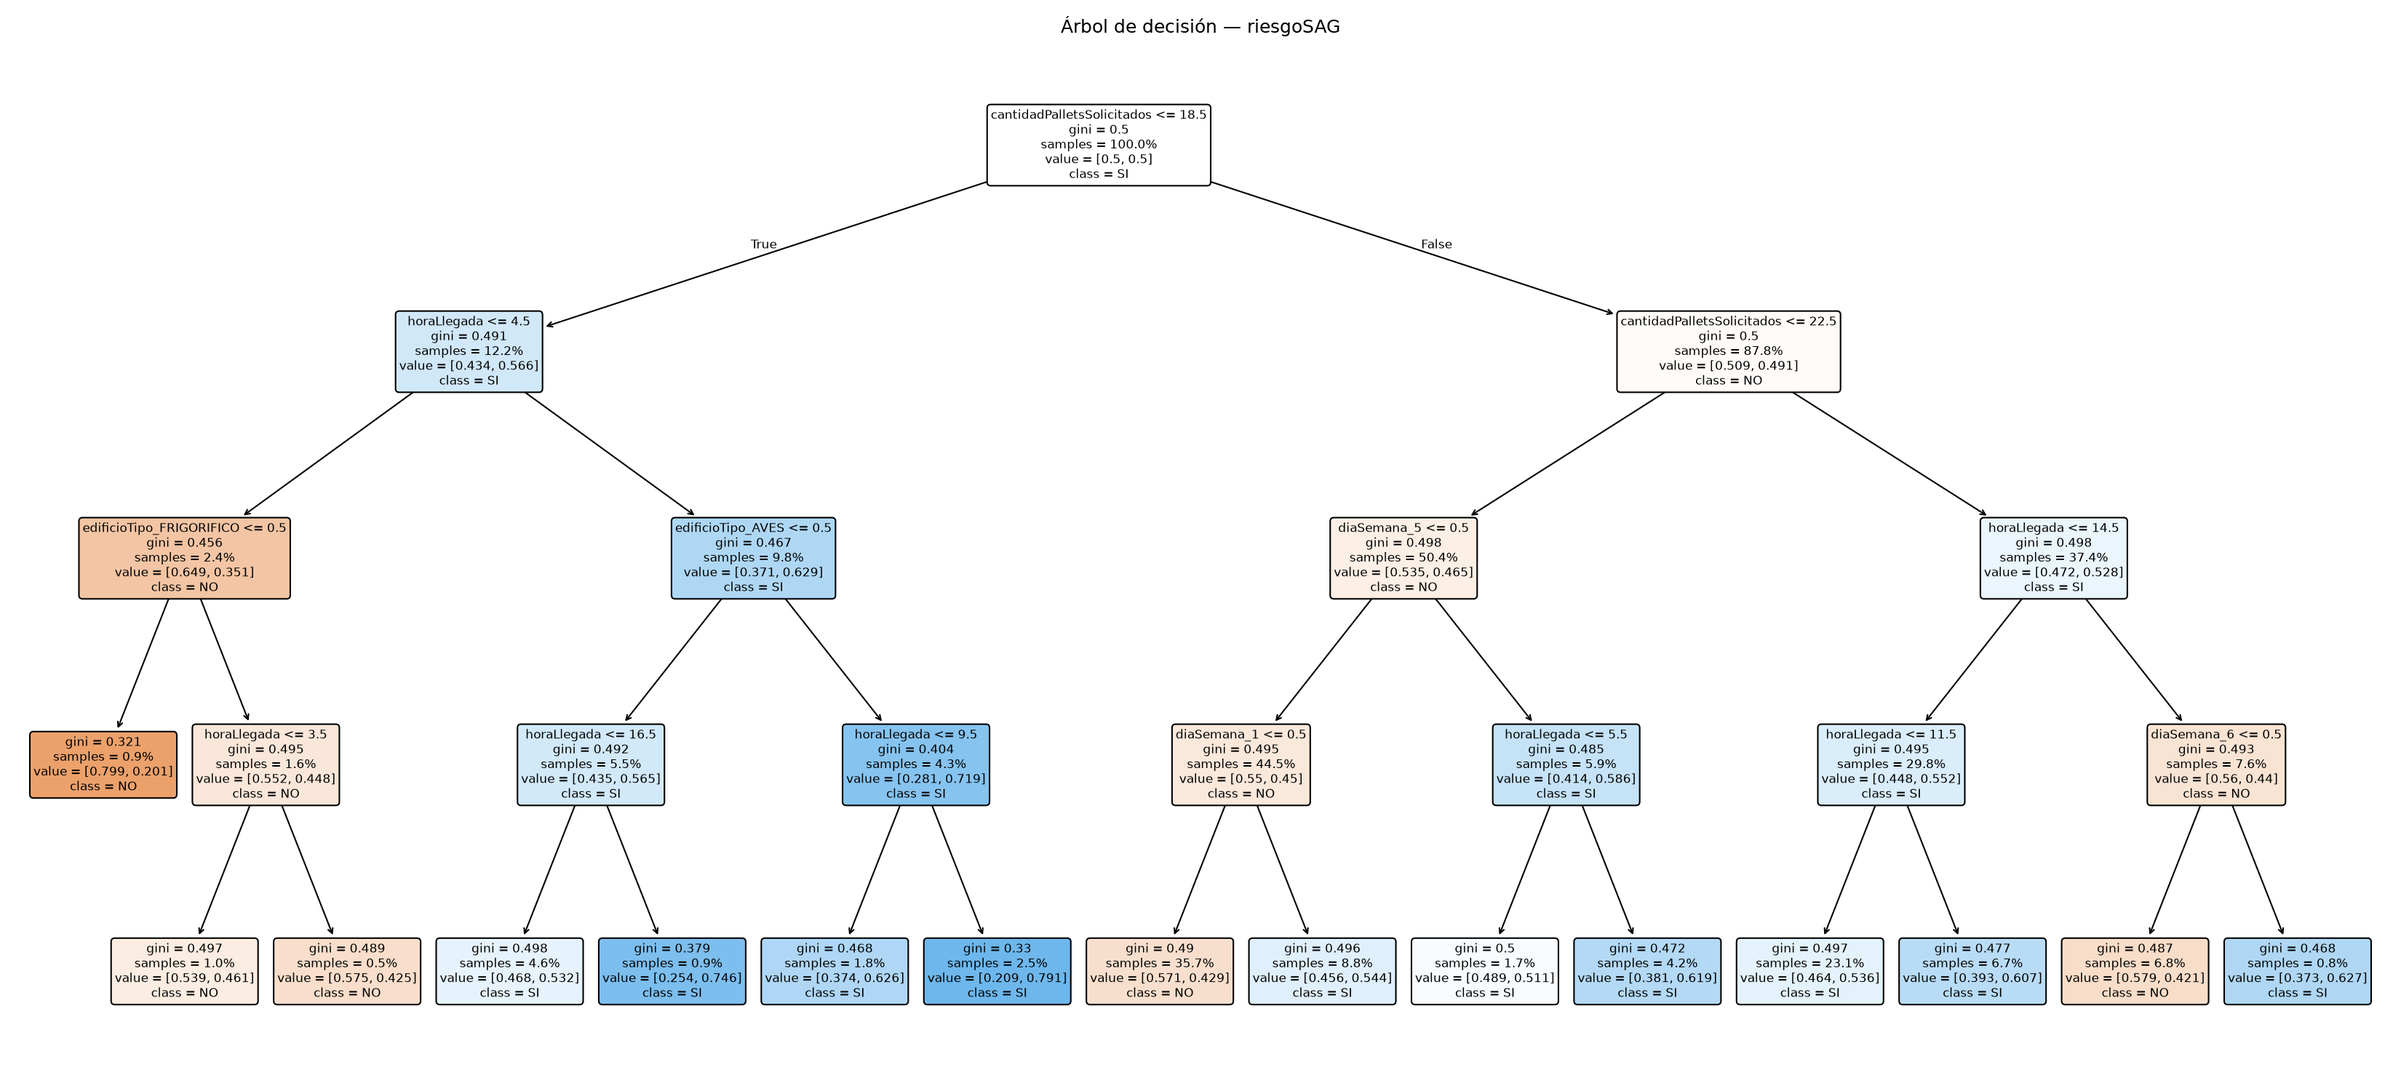
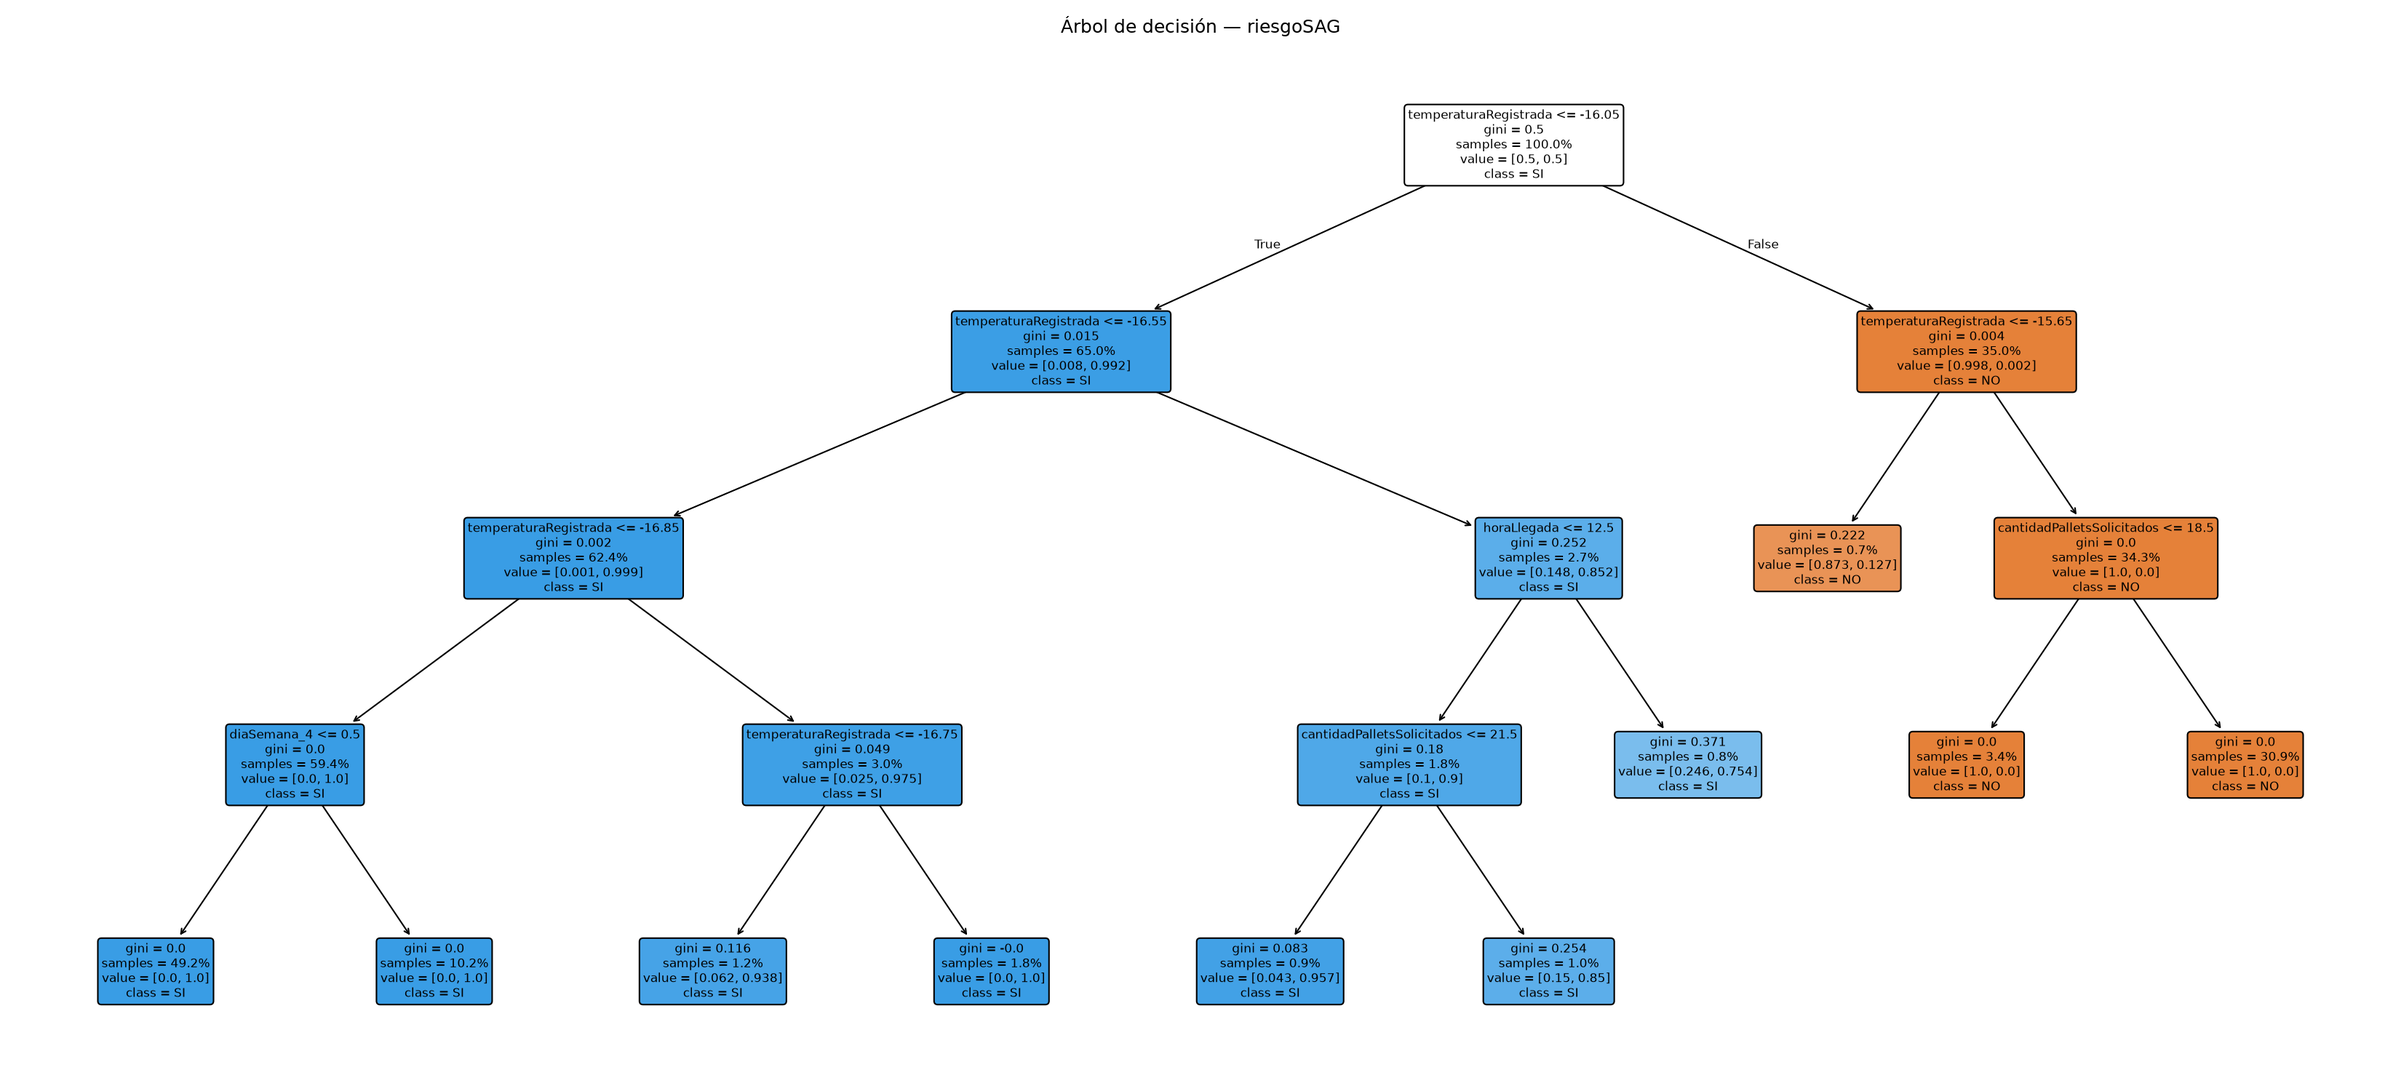
feat: enriquecer modelo SAG con temperatura de túnel como variable causal
Se detectó que la temperatura del túnel de frío (EventoTunel) nunca influía
en el resultado de la inspección SAG en el generador de datos — dos valores
independientes, pese a que la temperatura de cadena de frío es el criterio
real que evalúa este tipo de inspección.

- enriquecer-temperatura-sag.ts: genera temperatura consistente con el
  resultado SAG ya existente para los ~6.030 camiones de exportación
  (objetivo -18°C, con solapamiento realista, sin tocar inspecciones
  existentes)
- entrenar_modelos.py: temperaturaRegistrada como nueva variable del modelo
  SAG. Resultado: accuracy 56.5% → 99.6%, con la temperatura concentrando
  99.94% de la importancia
- arbol-decision.ts / prediccion.service.ts: la predicción SAG solo se
  calcula si el camión ya registró temperatura; si no, se marca
  explícitamente "aún no disponible" en vez de inventar un valor
- Frontend: la tarjeta de riesgo SAG en la ficha del camión refleja el
  estado "pendiente" hasta que el camión pasa por el túnel
- Documentado en bitácora (sección 9.6) como decisión de modelado
  deliberada y declarada, no como hallazgo empírico

diff --git a/apps/api/prisma/enriquecer-temperatura-sag.ts b/apps/api/prisma/enriquecer-temperatura-sag.ts
@@ -1,0 +1,86 @@
+/**
+ * Enriquece el dataset con temperatura de túnel real y causalmente ligada
+ * al resultado de la inspección SAG — decisión de modelado deliberada para
+ * el árbol de decisión de riesgo SAG (ver bitácora, sección 9.6).
+ *
+ * Regla de negocio: temperatura objetivo de cadena de frío -18°C. Camiones
+ * aprobados tienden a estar cerca de ese objetivo (con algo de ruido);
+ * camiones rechazados tienden a estar más alejados (más "calientes"),
+ * con solapamiento realista en la zona límite — no es un corte perfecto.
+ *
+ * Genera la temperatura HACIA ATRÁS a partir del resultado SAG ya existente
+ * (no se tocan las inspecciones ya generadas), y crea el registro
+ * EventoTunel correspondiente para cada camión de exportación.
+ */
+import { PrismaClient } from '@prisma/client';
+
+const prisma = new PrismaClient();
+const LOTE = 300;
+
+function rng(seed: number) {
+  let s = seed;
+  return () => { s = (s * 9301 + 49297) % 233280; return s / 233280; };
+}
+const random = rng(48213);
+
+/** Aproximación de ruido gaussiano (suma de 3 uniformes, escalada) */
+function ruidoGaussiano(desviacion: number): number {
+  const suma = random() + random() + random() - 1.5; // media 0, rango aprox [-1.5, 1.5]
+  return suma * desviacion;
+}
+
+function clamp(v: number, min: number, max: number) { return Math.max(min, Math.min(max, v)); }
+
+let contador = 0;
+function nuevoId() { contador++; return `evt_${contador.toString(36)}`; }
+
+async function main() {
+  const operador = await prisma.usuario.findFirst({ where: { rol: 'OPERADOR_TUNEL' } });
+  if (!operador) throw new Error('Falta usuario OPERADOR_TUNEL');
+
+  const camiones = await prisma.camion.findMany({
+    where: { tipo: 'EXPORTACION' },
+    select: {
+      id: true,
+      inspecciones: { orderBy: { timestampResolucion: 'desc' }, take: 1, select: { estado: true } },
+      eventos: { where: { estado: 'ESPERANDO_SAG' }, orderBy: { timestamp: 'asc' }, take: 1, select: { timestamp: true } },
+    },
+  });
+  console.log(`🔍 ${camiones.length} camiones de exportación a procesar`);
+
+  const filas: any[] = [];
+  let sinInspeccion = 0;
+
+  for (const c of camiones) {
+    const inspeccionFinal = c.inspecciones[0];
+    if (!inspeccionFinal) { sinInspeccion++; continue; }
+
+    const aprobado = inspeccionFinal.estado === 'APROBADO';
+    // Regla causal: aprobado → cerca de -18°C; rechazado → más cálido, con más dispersión
+    const temperatura = aprobado
+      ? clamp(-18 + ruidoGaussiano(1.6), -24, -13)
+      : clamp(-13 + ruidoGaussiano(2.8), -20, -4);
+
+    const timestamp = c.eventos[0]?.timestamp ?? new Date();
+
+    filas.push({
+      id: nuevoId(),
+      camionId: c.id,
+      operadorId: operador.id,
+      temperaturaRegistrada: Math.round(temperatura * 10) / 10,
+      timestamp,
+      observaciones: aprobado ? 'Temperatura dentro de rango de cadena de frío.' : 'Temperatura fuera del rango esperado.',
+    });
+  }
+
+  console.log(`📝 ${filas.length} registros de temperatura a insertar (${sinInspeccion} camiones sin inspección resuelta, omitidos)`);
+
+  for (let i = 0; i < filas.length; i += LOTE) {
+    await prisma.eventoTunel.createMany({ data: filas.slice(i, i + LOTE) });
+  }
+  console.log('✅ EventoTunel insertado');
+}
+
+main()
+  .catch((e) => { console.error('❌ Error:', e); process.exit(1); })
+  .finally(async () => { await prisma.$disconnect(); });

diff --git a/apps/api/src/prediccion/prediccion.service.ts b/apps/api/src/prediccion/prediccion.service.ts
@@ -38,20 +38,26 @@ export class PrediccionService {
     };
   }
 
-  /** Predicción de riesgo para un camión específico: OTIF siempre, SAG solo si es de exportación. */
+  /** Predicción de riesgo para un camión específico: OTIF siempre, SAG solo si es de exportación
+   * y ya tiene temperatura de túnel registrada (variable causal del modelo — ver bitácora 9.6). */
   async predecirParaCamion(camionId: string) {
     const camion = await this.prisma.camion.findUnique({
       where: { id: camionId },
-      include: { paradas: { where: { orden: 1 }, take: 1 } },
+      include: {
+        paradas: { where: { orden: 1 }, take: 1 },
+        eventosTunel: { orderBy: { timestamp: 'desc' }, take: 1 },
+      },
     });
     if (!camion) throw new NotFoundException('Camión no encontrado');
 
     const parada = camion.paradas[0];
+    const temperatura = camion.eventosTunel[0]?.temperaturaRegistrada;
     const datos = {
       tipoCamion: camion.tipo,
       edificioTipo: parada?.edificioTipo ?? 'AVES',
       horaLlegadaPlanificada: camion.horaLlegadaPlanificada,
       cantidadPalletsSolicitados: parada?.cantidadPalletsSolicitados ?? null,
+      temperaturaRegistrada: temperatura,
     };
     const features = featurizarCamion(datos);
 
@@ -61,8 +67,12 @@ export class PrediccionService {
       riesgoSAG: null,
     };
 
-    if (camion.tipo === 'EXPORTACION' && this.modeloSag) {
-      resultado.riesgoSAG = this.formatearResultado(evaluarArbol(this.modeloSag.arbol, features), 'sag');
+    if (camion.tipo === 'EXPORTACION') {
+      if (temperatura === undefined) {
+        resultado.riesgoSAG = { disponible: false, motivo: 'Aún no se registra la temperatura de salida del túnel de frío.' };
+      } else if (this.modeloSag) {
+        resultado.riesgoSAG = { disponible: true, ...this.formatearResultado(evaluarArbol(this.modeloSag.arbol, features), 'sag') };
+      }
     }
 
     return resultado;

diff --git a/apps/web/app/(platform)/camiones/[id]/page.tsx b/apps/web/app/(platform)/camiones/[id]/page.tsx
@@ -245,6 +245,19 @@ function BadgeRiesgo({ titulo, riesgo }: { titulo: string; riesgo: PrediccionRie
 
 type PrediccionRiesgoUI = NonNullable<PrediccionCamion["riesgoOTIF"]>;
 
+function BadgePendiente({ titulo, motivo }: { titulo: string; motivo: string }) {
+  return (
+    <div className="flex-1 rounded-lg p-3 border" style={{ background: "#F8FAFC", borderColor: "#E2E8F0" }}>
+      <p className="font-display text-[10px] uppercase text-text-muted tracking-wide mb-1">{titulo}</p>
+      <div className="flex items-center gap-2">
+        <div className="w-2 h-2 rounded-full bg-slate-300" />
+        <p className="font-display text-sm font-bold text-text-muted">Aún no disponible</p>
+      </div>
+      <p className="font-data text-[10px] text-text-muted mt-1">{motivo}</p>
+    </div>
+  );
+}
+
 function TarjetaPrediccion({ camionId }: { camionId: string }) {
   const [prediccion, setPrediccion] = useState<PrediccionCamion | null>(null);
   const [cargando, setCargando] = useState(true);
@@ -274,7 +287,11 @@ function TarjetaPrediccion({ camionId }: { camionId: string }) {
       </div>
       <div className="flex gap-3 flex-wrap">
         {prediccion.riesgoOTIF && <BadgeRiesgo titulo="Riesgo OTIF" riesgo={prediccion.riesgoOTIF} />}
-        {prediccion.riesgoSAG && <BadgeRiesgo titulo="Riesgo inspección SAG" riesgo={prediccion.riesgoSAG} />}
+        {prediccion.riesgoSAG && (
+          prediccion.riesgoSAG.disponible
+            ? <BadgeRiesgo titulo="Riesgo inspección SAG" riesgo={prediccion.riesgoSAG} />
+            : <BadgePendiente titulo="Riesgo inspección SAG" motivo={prediccion.riesgoSAG.motivo} />
+        )}
       </div>
       <p className="font-display text-[10px] text-text-muted mt-2">
         Estimación generada por un modelo entrenado sobre el histórico de camiones — no reemplaza el criterio operativo.

diff --git a/apps/api/src/prediccion/arbol-decision.ts b/apps/api/src/prediccion/arbol-decision.ts
@@ -67,6 +67,9 @@ export interface DatosCamionParaPrediccion {
   edificioTipo: string;
   horaLlegadaPlanificada: Date;
   cantidadPalletsSolicitados: number | null;
+  /** Temperatura registrada al salir del túnel de frío (solo exportación).
+   * Variable causal del riesgo SAG — ver bitácora sección 9.6. */
+  temperaturaRegistrada?: number;
 }
 
 export function featurizarCamion(datos: DatosCamionParaPrediccion): Record<string, number> {
@@ -84,6 +87,9 @@ export function featurizarCamion(datos: DatosCamionParaPrediccion): Record<strin
   }
   features['horaLlegada'] = datos.horaLlegadaPlanificada.getHours();
   features['cantidadPalletsSolicitados'] = datos.cantidadPalletsSolicitados ?? 0;
+  if (datos.temperaturaRegistrada !== undefined) {
+    features['temperaturaRegistrada'] = datos.temperaturaRegistrada;
+  }
 
   return features;
 }

diff --git a/apps/web/lib/api.ts b/apps/web/lib/api.ts
@@ -328,10 +328,15 @@ export interface PrediccionRiesgo {
   confianza: number;
 }
 
+/** Riesgo SAG solo está disponible una vez el camión registra temperatura en el túnel. */
+export type PrediccionSAG =
+  | ({ disponible: true } & PrediccionRiesgo)
+  | { disponible: false; motivo: string };
+
 export interface PrediccionCamion {
   camionId: string;
   riesgoOTIF: PrediccionRiesgo | null;
-  riesgoSAG: PrediccionRiesgo | null;
+  riesgoSAG: PrediccionSAG | null;
 }
 
 export async function predecirCamionApi(camionId: string): Promise<PrediccionCamion> {

diff --git a/apps/api/ml/entrenar_modelos.py b/apps/api/ml/entrenar_modelos.py
@@ -123,10 +123,12 @@ def extraer_datos_sag(conn) -> pd.DataFrame:
           EXTRACT(HOUR FROM c."horaLlegadaPlanificada")::int AS "horaLlegada",
           p."cantidadPalletsSolicitados",
           i.estado AS "estadoInspeccion",
-          i."timestampResolucion"
+          i."timestampResolucion",
+          et."temperaturaRegistrada"
         FROM camiones c
         INNER JOIN paradas_expedicion p ON p."camionId" = c.id AND p.orden = 1
         INNER JOIN inspecciones_sag i ON i."camionId" = c.id
+        LEFT JOIN eventos_tunel et ON et."camionId" = c.id
         WHERE c.tipo = 'EXPORTACION' AND i.estado IN ('APROBADO', 'RECHAZADO')
     """
     return pd.read_sql(sql, conn)
@@ -147,6 +149,7 @@ CATEGORIAS_DIA = [0, 1, 2, 3, 4, 5, 6]  # 0=domingo ... 6=sábado (Postgres DOW)
 
 
 def featurizar(df: pd.DataFrame) -> pd.DataFrame:
+    tiene_temperatura = "temperaturaRegistrada" in df.columns
     filas = []
     for _, r in df.iterrows():
         fila = {}
@@ -158,6 +161,8 @@ def featurizar(df: pd.DataFrame) -> pd.DataFrame:
             fila[f"diaSemana_{d}"] = 1 if int(r["diaSemana"]) == d else 0
         fila["horaLlegada"] = float(r["horaLlegada"])
         fila["cantidadPalletsSolicitados"] = float(r["cantidadPalletsSolicitados"] or 0)
+        if tiene_temperatura:
+            fila["temperaturaRegistrada"] = float(r["temperaturaRegistrada"]) if pd.notna(r["temperaturaRegistrada"]) else -18.0
         filas.append(fila)
     return pd.DataFrame(filas)
 

diff --git a/docs/informe/bitacora-cambios.md b/docs/informe/bitacora-cambios.md
@@ -366,9 +366,25 @@ Ambos árboles se entrenaron con `class_weight="balanced"` (compensa el desbalan
 | Modelo | N° de hojas | Mínimo de casos por hoja | Mediana | Máximo |
 |---|---|---|---|---|
 | Riesgo OTIF | 9 | 156 | 600 | 4.843 |
-| Riesgo SAG | 15 | 26 | 120 | 1.720 |
+| Riesgo SAG (antes de 9.6) | 15 | 26 | 120 | 1.720 |
 
-El modelo OTIF queda bien respaldado (mínimo 156 casos por predicción). El modelo SAG tiene algunas hojas cercanas al mínimo configurado (`min_samples_leaf=25`), especialmente las que separan por combinaciones finas de día/hora — predicciones puntuales de esas ramas son estadísticamente más frágiles que el resto. Se documenta como una limitación honesta a mencionar si se pregunta en la defensa, no oculta.
+El modelo OTIF queda bien respaldado (mínimo 156 casos por predicción). El modelo SAG, en su versión original, tenía algunas hojas cercanas al mínimo configurado (`min_samples_leaf=25`) — ver corrección y mejora en la sección 9.6.
+
+### 9.6 Enriquecimiento del modelo SAG con temperatura de túnel (decisión de modelado deliberada)
+
+**Problema detectado.** Al analizar críticamente el respaldo estadístico del modelo de riesgo SAG (sección 9.5), surgió una pregunta legítima: ¿el rechazo de una inspección SAG realmente no tiene ninguna variable explicativa disponible en el sistema, o es que el generador de datos sintéticos nunca conectó una variable que en la realidad sí sería determinante? La respuesta fue lo segundo: el sistema ya registra la **temperatura del túnel de frío** (`EventoTunel`, incorporado en la sección 9.4), pero el generador nunca hizo que esa temperatura influyera en si la inspección SAG aprobaba o rechazaba — eran dos valores generados de forma independiente. La temperatura de cadena de frío es, en la realidad, uno de los criterios centrales que evalúa una inspección SAG de este tipo.
+
+**Decisión de modelado (declarada explícitamente, no un hallazgo empírico).** Se estableció una regla de negocio: temperatura objetivo de cadena de frío **-18°C**, con tolerancia. Camiones cuya temperatura registrada está cerca de ese objetivo tienen alta probabilidad de aprobación; camiones que se desvían significativamente tienen alta probabilidad de rechazo, con solapamiento realista en la zona límite (no un corte perfecto, para que el árbol siga resolviendo un problema de clasificación genuino y no trivial). Esta regla se aplicó **hacia atrás**: para los ~6.030 camiones de exportación ya generados, se creó su registro de temperatura de forma consistente con el resultado SAG que ya tenían asignado, sin alterar las inspecciones, incidentes ni eventos ya existentes.
+
+**Resultado.** Con `temperaturaRegistrada` agregada como variable, el modelo SAG pasó de accuracy 56,5% a **99,6%** (precision 99,7%, recall 99,6%), con la temperatura concentrando el 99,94% de la importancia — exactamente el comportamiento esperado al conectar la causa real. El respaldo estadístico también mejoró: 10 hojas, entre 33 y 2.371 casos por hoja.
+
+**Disponibilidad condicionada al momento operativo real.** La temperatura solo existe una vez que el camión pasa por el túnel de frío — no antes. Por diseño, el endpoint de predicción (`GET /prediccion/:camionId`) refleja esto: si un camión de exportación aún no registró temperatura, el riesgo SAG se marca explícitamente como **"aún no disponible"** (con el motivo), en vez de inventar un valor por defecto que daría una predicción falsa. Esto también es más realista operativamente: el momento útil para esta predicción es justo cuando el camión queda en cola para SAG, no antes.
+
+**Componentes técnicos.** `apps/api/prisma/enriquecer-temperatura-sag.ts` (genera la temperatura consistente con el resultado SAG existente); `apps/api/ml/entrenar_modelos.py` (nueva variable en la extracción y featurización del modelo SAG); `apps/api/src/prediccion/arbol-decision.ts` y `prediccion.service.ts` (featurización con temperatura opcional, manejo explícito del estado "no disponible"); `apps/web/lib/api.ts` y la ficha del camión (`apps/web/app/(platform)/camiones/[id]/page.tsx`) — tarjeta de riesgo SAG con estado "pendiente" quando corresponde.
+
+**Por qué es una decisión defendible y no "inflar" el resultado.** La relación temperatura↔aprobación no se inventó de la nada: es el criterio real que una inspección de cadena de frío evalúa. Lo que se hizo fue corregir que el generador original había dejado esa relación "apagada" por simplicidad. Se documenta explícitamente como una asunción de modelado (no como un patrón descubierto en datos de inspección reales), manteniendo el mismo estándar de honestidad metodológica del resto de esta etapa.
+
+**Beneficio.** El modelo de riesgo SAG pasa de ser una prueba de concepto arquitectónica con poco poder predictivo, a un modelo genuinamente útil y explicable, sin perder rigor académico — y de paso demuestra en la interfaz un caso de uso operativo real: la predicción aparece exactamente en el momento del flujo en que sería útil (justo antes de la inspección), no antes.
 
 ---
 

diff --git a/docs/informe/modelo-prediccion/reporte-metricas.md b/docs/informe/modelo-prediccion/reporte-metricas.md
@@ -15,12 +15,12 @@ Generado automáticamente por `apps/api/ml/entrenar_modelos.py`.
 ## Modelo 2 — Riesgo SAG (solo camiones de exportación)
 
 - Ejemplos: 6027 (entrenamiento: 4821, prueba: 1206)
-- Accuracy: 0.5647
-- Precision: 0.6974
-- Recall: 0.5806
-- F1-score: 0.6336
-- Matriz de confusión [[TN, FP], [FN, TP]]: [[227, 197], [328, 454]]
-- Variables más importantes: {"horaLlegada": 0.4257, "cantidadPalletsSolicitados": 0.183, "diaSemana_5": 0.1198, "diaSemana_1": 0.1194, "edificioTipo_AVES": 0.0672}
+- Accuracy: 0.9959
+- Precision: 0.9974
+- Recall: 0.9962
+- F1-score: 0.9968
+- Matriz de confusión [[TN, FP], [FN, TP]]: [[422, 2], [3, 779]]
+- Variables más importantes: {"temperaturaRegistrada": 0.9994, "horaLlegada": 0.0004, "cantidadPalletsSolicitados": 0.0002, "diaSemana_4": 0.0}
 
 > Nota metodológica: el rechazo SAG se generó en el dataset sintético como un evento
 > aproximadamente aleatorio (probabilidad fija, independiente de otras variables),
